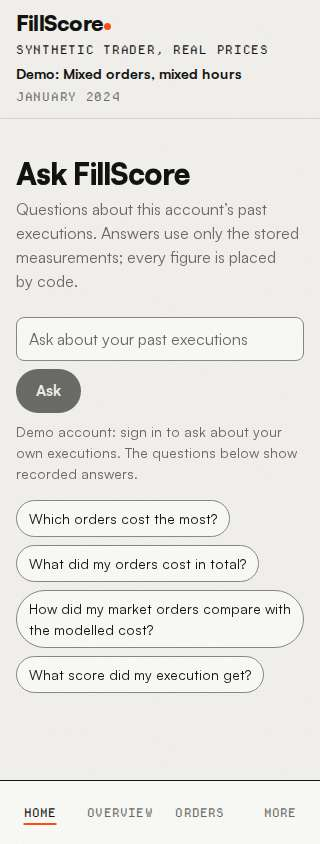
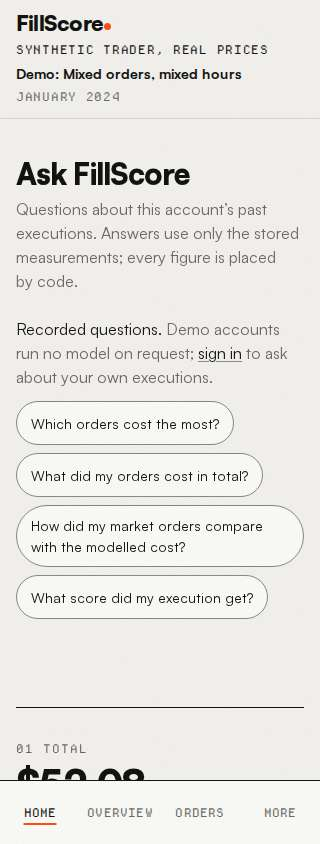
IA v4 review fixes: one demo entry, honest answer labels, one live announcement, stamp version

diff --git a/frontend/app/design-lab/ia4/AskHome.tsx b/frontend/app/design-lab/ia4/AskHome.tsx
@@ -8,15 +8,20 @@ import type { RecordedRun } from './data'
  * answers of the real Ask agent (fixtures/ask-recorded.json), shown verbatim and labelled as recorded. The answer prints as a
  * receipt slip: the paper feeds out of the slot, then each line prints (ia4.css; reduced motion: the finished slip).
  */
-export function AskHome({ runs, label, recordedAt }: { runs: RecordedRun[]; label: string; recordedAt: string }) {
+export function AskHome({ runs, label, recordedAt, context }: { runs: RecordedRun[]; label: string; recordedAt: string; context: string }) {
   const [picked, setPicked] = useState<number | null>(null)
   const run = picked === null ? null : runs[picked]
+  // review (step 4): the LLM heading only over text the model wrote; a degraded answer was written by code and says so
+  const byModel = run ? run.view.note === null : false
   const lines: Array<{ key: string; node: React.ReactNode; className?: string }> = run ? [
     { key: 'h', node: 'ASK FILLSCORE', className: 'text-center font-mono tracking-[0.08em]' },
     { key: 'r', node: 'RECORDED ANSWER, NOT LIVE', className: 'text-center font-mono text-[12px] tracking-[0.06em] text-ui-graphite' },
+    // the account's period and order count, placed by code, so a slip read alone keeps its scope
+    { key: 'c', node: context, className: 'text-center font-mono text-[12px] tracking-[0.06em] text-ui-graphite' },
     // DESIGN §4: mono for printed labels only; sentences in the text face
     { key: 'q', node: <><span className="font-mono text-[12px] tracking-[0.06em] text-ui-graphite">QUESTION </span><span className="font-sans text-[15px]">{run.question}</span></>, className: 'mt-3' },
-    { key: 'lh', node: 'Explanation (language model; every number was checked against the audit)', className: 'mt-3 font-sans text-[13px] text-ui-graphite' },
+    { key: 'lh', node: byModel ? 'Explanation (language model; every number was checked against the audit)' : 'Written by code from the measured values (no model text)',
+      className: 'mt-3 font-sans text-[13px] text-ui-graphite' },
     { key: 'a', node: run.view.answer, className: 'font-sans text-[18px] leading-snug font-bold tracking-[-0.015em]' },
     ...(run.view.note ? [{ key: 'n', node: run.view.note, className: 'font-sans text-[14px] text-ui-graphite' }] : []),
     { key: 'm', node: run.view.meta, className: 'mt-2 font-sans text-[14px] text-ui-graphite' },
@@ -26,25 +31,23 @@ export function AskHome({ runs, label, recordedAt }: { runs: RecordedRun[]; labe
     <section aria-labelledby="ask-title" data-testid="ia4-ask">
       <h1 id="ask-title" className="display-md text-ui-ink">Ask FillScore</h1>
       <p className="mt-2 max-w-[60ch] text-[16px] text-ui-graphite">Questions about this account&rsquo;s past executions. Answers use only the stored measurements; every figure is placed by code.</p>
-      <form className="mt-6 flex flex-wrap items-stretch gap-2" onSubmit={(e) => e.preventDefault()}>
-        <label htmlFor="ia4-q" className="sr-only">Your question</label>
-        <input id="ia4-q" readOnly value={run?.question ?? ''} placeholder="Ask about your past executions"
-          aria-describedby="ia4-q-hint" className="min-h-11 min-w-0 flex-1 basis-64 rounded-[8px] border border-ui-edge bg-ui-raised px-3 text-[16px] text-ui-ink placeholder:text-ui-graphite" />
-        <button type="submit" disabled className="min-h-11 rounded-full bg-ui-ink px-5 text-[15px] font-bold text-ui-surface disabled:opacity-60">Ask</button>
-      </form>
-      <p id="ia4-q-hint" className="mt-2 text-[14px] text-ui-graphite">
+      {/* review (step 4): a demo account gets no input it cannot use; the recorded questions are the interaction. A signed-in
+          account gets the live box (production AskPanel) in this place. */}
+      <p className="mt-6 text-[16px] text-ui-ink">
         {runs.length
-          ? 'Demo account: sign in to ask about your own executions. The questions below show recorded answers.'
-          : 'Demo account: sign in to ask about your own executions. Recorded answers exist for the mixed-orders demo trader only.'}
+          ? <>Recorded questions. <span className="text-ui-graphite">Demo accounts run no model on request; <a href="/login" className="text-ui-ink underline underline-offset-2">sign in</a> to ask about your own executions.</span></>
+          : <>No recorded questions for this demo trader. <span className="text-ui-graphite">Recorded answers exist for the mixed-orders trader; <a href="/login" className="text-ui-ink underline underline-offset-2">sign in</a> to ask about your own executions.</span></>}
       </p>
-      <ul className="mt-4 flex flex-wrap gap-2" aria-label="Suggested questions">
+      <ul className="mt-3 flex flex-wrap gap-2" aria-label="Recorded questions">
         {runs.map((r, i) => (
           <li key={r.question} className="max-w-full">
-            <button type="button" className="ia4-chip" aria-pressed={picked === i} onClick={() => setPicked(i)} data-testid="ia4-chip">{r.question}</button>
+            <button type="button" className="ia4-chip" data-picked={picked === i} onClick={() => setPicked(i)} data-testid="ia4-chip">{r.question}</button>
           </li>
         ))}
       </ul>
-      <div aria-live="polite" className="mt-6 max-w-[640px]">
+      {/* screen readers hear the answer sentence once, not every printed line */}
+      <p className="sr-only" role="status">{run ? `Recorded answer: ${run.view.answer}` : ''}</p>
+      <div className="mt-6 max-w-[640px]">
         {run ? (
           <div>
             <div className="ia4-slot" aria-hidden="true" />

diff --git a/frontend/app/design-lab/ia4/AppShell4.tsx b/frontend/app/design-lab/ia4/AppShell4.tsx
@@ -33,19 +33,27 @@ export function AppShell4({ active, userId, account, provenance, period, version
   const [y, setY] = useState<number | null>(null)
   const sheet = useRef<HTMLDialogElement>(null)
   // the pen underline sits under the current item: measured after layout, moved by transform (ia4.css)
+  // re-measured on resize and once the fonts load, so a font swap or text zoom cannot leave it under the wrong item (review)
   useLayoutEffect(() => {
-    const a = nav.current?.querySelector<HTMLAnchorElement>('a[aria-current="page"]')
-    if (a) setY(a.offsetTop + a.offsetHeight - 3)
+    const place = () => {
+      const a = nav.current?.querySelector<HTMLAnchorElement>('a[aria-current="page"]')
+      if (a) setY(a.offsetTop + a.offsetHeight - 3)
+    }
+    place()
+    window.addEventListener('resize', place)
+    void document.fonts?.ready.then(place)
+    return () => window.removeEventListener('resize', place)
   }, [active])
   return (
     <div className="ia4-shell">
       <aside className="ia4-side" aria-label="App">
         <div className="flex items-center justify-between">
           <Link href="/design-lab/ia4/site" className="no-underline" aria-label="FillScore site"><Logo /></Link>
-          <span className="font-mono text-[11px] text-ui-graphite" aria-label="Command menu: control K">⌘K</span>
+          <span className="font-mono text-[11px] text-ui-graphite" aria-hidden="true">⌘K</span>
         </div>
         <div>
-          <button type="button" className="w-full rounded-[8px] border border-ui-edge px-2.5 py-2 text-left text-[14px] font-bold text-ui-ink">Demo: {account}</button>
+          <Link href="/design-lab/ia4/site#demo" className="block w-full rounded-[8px] border border-ui-edge px-2.5 py-2 text-left text-[14px] font-bold text-ui-ink no-underline"
+            aria-label={`Demo: ${account}. Switch demo trader`}>Demo: {account}</Link>
           <p className="mt-2 font-mono text-[11px] tracking-[0.06em] text-ui-ink uppercase">{provenance}</p>
           <p className="font-mono text-[11px] tracking-[0.06em] text-ui-graphite uppercase">{period}</p>
         </div>

diff --git a/frontend/app/design-lab/ia4/app/page.tsx b/frontend/app/design-lab/ia4/app/page.tsx
@@ -25,7 +25,8 @@ export default async function Ia4App({ searchParams }: { searchParams: Promise<{
       {active === 'home' ? (
         <div className="flex flex-col gap-16">
           {/* answers were recorded for one demo trader only; the others say so instead of borrowing its answers */}
-          <AskHome runs={trader.id === ask.account ? ask.runs : []} label={ask.label} recordedAt={ask.recordedAt} />
+          <AskHome runs={trader.id === ask.account ? ask.runs : []} label={ask.label} recordedAt={ask.recordedAt}
+            context={`${k.periodLabel.toUpperCase()} · ${(k.headline?.orders ?? trader.orders).toLocaleString('en-US')} ORDERS`} />
 
           <section aria-labelledby="kf-title" className="border-t border-ui-ink pt-8" data-testid="ia4-key-figures">
             <h2 id="kf-title" className="sr-only">Key figures, {k.periodLabel}</h2>
@@ -39,7 +40,15 @@ export default async function Ia4App({ searchParams }: { searchParams: Promise<{
                   </>
                 ) : <ValueState state="not-computed" label="Total cost" reason="The orders were not measured, so there is no dollar total." />}
               </div>
-              {k.grade ? <GradeStamp grade={k.grade.letter} score={k.grade.score} period={k.periodLabel} version={k.grade.version} size="sm" /> : null}
+              {k.grade ? (
+                <div className="flex flex-col items-start gap-3 lg:items-end">
+                  <GradeStamp grade={k.grade.letter} score={k.grade.score} period={k.periodLabel} version={k.grade.version} size="sm" />
+                  {/* review (step 4): the version printed beside the small stamp, which shows the period only */}
+                  <p className="font-mono text-[12px] tracking-[0.06em] text-ui-graphite uppercase" data-testid="ia4-stamp-version">
+                    Scoring {k.grade.version} (measured){k.grade.bandText ? `, range ${k.grade.bandText}` : ''}
+                  </p>
+                </div>
+              ) : null}
             </div>
 
             <div className="mt-12">

diff --git a/frontend/app/design-lab/ia4/ia4.css b/frontend/app/design-lab/ia4/ia4.css
@@ -36,10 +36,10 @@
 @keyframes ia4-in { from { opacity: 0; transform: translateY(8px); } to { opacity: 1; transform: none; } }
 
 /* ---- the Ask box and chips ---- */
-.ia4-chip { display: inline-block; max-width: 100%; text-align: left; padding: 7px 12px; border: 1px solid var(--ui-edge); border-radius: 999px;
+.ia4-chip { display: inline-block; max-width: 100%; min-height: 44px; text-align: left; padding: 9px 14px; border: 1px solid var(--ui-edge); border-radius: 999px;
   font-size: 14px; color: var(--ui-ink); background: var(--ui-raised); cursor: pointer; }
 .ia4-chip:hover { background: var(--ui-overlay); }
-.ia4-chip[aria-pressed="true"] { border-color: var(--ui-ink); }
+.ia4-chip[data-picked="true"] { border-color: var(--ui-ink); box-shadow: inset 0 0 0 1px var(--ui-ink); }
 
 /* ---- the receipt that prints: paper feeds out of the slot, then each line prints left to right ---- */
 .ia4-slot { height: 6px; border-radius: 3px; background: var(--ui-ink); }

diff --git a/frontend/app/design-lab/ia4/SiteTopBar.tsx b/frontend/app/design-lab/ia4/SiteTopBar.tsx
@@ -10,7 +10,8 @@ export const SITE_ITEMS: Array<[string, string]> = [
   // "How it works" is the landing's HowItReads section today (proposed: its own page, /how-it-works)
   ['/', 'How it works'], ['#demo', 'Demo'], ['/verify', 'Verify'], ['/methodology', 'Docs'],
 ]
-const DEMO = '/design-lab/ia4/app'
+// review (step 4): "Demo" and "Open the demo" both lead to the choice of trader (proposed: /demo), never straight past it
+const DEMO = '/design-lab/ia4/site#demo'
 
 export function SiteTopBar() {
   const menu = useRef<HTMLDialogElement>(null)

diff --git a/docs/design/IA-v4/PROPOSAL.md b/docs/design/IA-v4/PROPOSAL.md
@@ -37,7 +37,8 @@ Pricing: **no page.** Stripe is prepared and off, there is no plan to show (STAT
 
 ### Marketing top bar
 
-`FillScore.` · How it works · Demo · Verify · Docs · (right) Log in · **Open the demo** (ink pill). 5 items plus two actions
+`FillScore.` · How it works · Demo · Verify · Docs · (right) Log in · **Open the demo** (ink pill). "Demo" and "Open the demo"
+both go to `/demo`, the choice of trader; nothing skips the choice. 4 items plus two actions
 (cal.com has 10; Linear 8). Methodology and Verify stay public but leave the app's bar: Methodology sits under Docs, Verify is
 its own item because "check it yourself" is the trust promise. Phone: wordmark, "Open the demo", Menu; the menu is a receipt
 sheet with the five items and Log in / Sign up pinned at the bottom (cal.com's pattern).
@@ -106,10 +107,13 @@ versions, log in/out). The account switcher and the provenance line sit at the t
   its DESIGN §9 heading.
 - **Key figures under it** are today's overview chapter 01 (the total and its sentence, the grade stamp) and 02 (the strip),
   served by the same APIs (`/audit/orders-summary`); the other chapters stay on Overview.
-- **A demo visitor** lands on `/app?userId=demo-moderate` from "Open the demo" (or `/demo`, which lists the three traders). The Ask
-  service refuses demo accounts (no model runs on request for demo data), so Home shows the **recorded** answers of the real Ask
-  agent for that demo, labelled "Recorded answer of the Ask agent on demo data; not a live answer", and the box says "Sign in to ask
-  about your own executions." The chips then show their recorded answer.
+- **A demo visitor** picks a trader on `/demo` and lands on `/app?userId=demo-*`. The Ask service refuses demo accounts (no model
+  runs on request for demo data), so a demo Home has **no input box**: it shows "Recorded questions" as chips, each printing the
+  **recorded** answer of the real Ask agent, labelled "Recorded answer, not live", with a code-built line of scope (period and order
+  count). The LLM heading appears only over text the model wrote; a degraded answer is headed "Written by code from the measured
+  values". Screen readers hear the answer sentence once (one status element), not each printed line.
+- **The stamp** on Home is the small one (period only), so the scoring version and range are printed beside it
+  ("SCORING V2.3.0 (MEASURED), RANGE 92.5 TO 94.1"). The locked v1 grade stays where it is today (Evidence, "v1 details").
 - **A signed-in user** lands on `/app` after login (today: `/dashboard`). With no exchange connected yet, Home shows the connect
   empty state (one icon, "No trades yet", two lines, one action: "Connect an exchange") and the broker-file tool beside it; Ask is
   disabled with "Ask needs measured orders." With data, Ask is live (2 budget units per question, as today).
@@ -147,8 +151,13 @@ the page and stays visible.
 | ⌘K palette | keep | lists the sidebar's items and actions | n/a | n/a |
 
 Nothing retires. Trades and Analytics merge into one page because both read v1 per-fill scores; one sidebar item is clearer
-than two. The redirects go in `next.config` `redirects()`, with a test that every old URL (including each `?view=`) answers
-308 to its new home and keeps the query.
+than two. The redirects go in `next.config` `redirects()`, with a test that every old URL (including each `?view=`, and
+combinations such as `?view=orders&userId=demo-moderate&order=...`) answers 308 to its new home and keeps the rest of the query;
+and that `/app/*` pages without `userId` send a signed-out visitor to log in, while `/app/check` stays open signed out.
+
+Glosses for the less obvious nouns go in the ⌘K palette and the More sheet, one line each: Rules "orders that broke a stated
+rule", Rankings "groups of orders compared, with noise", Council "a language-model review of the audit", Evidence "signed packs and
+the record behind the grade", Fills "each fill and its patterns".
 
 ## 4. Number presentation rules (proposed DESIGN.md section 12; proposal text only)
 
@@ -220,3 +229,25 @@ shadow).
 4. The recorded Ask answers on demo Home (recommended, labelled), or no Ask on demo accounts at all.
 5. The Ask agent's recorded comparison answer reads "-0.1 bps in bps" (a doubled unit in the model's sentence; the recording is not
    edited). A renderer or prompt fix is a separate order.
+6. The landing hero's figures (spread, impact and timing, fees of one demo order) carry the synthetic line below the call to action,
+   not beside the tape. A "One demo order, Jan 31, 2024" label on the tape itself is a small production change, outside this order.
+
+## 9. Review (step 4, one reviewer, Sonnet, read-only)
+
+| Finding (reviewer's rank) | Decision |
+|---|---|
+| Two demo entries land on different pages (high) | Fixed: both go to the choice of trader (`/demo`; lab: the site's demo section). |
+| LLM heading over the code-built fallback answer (high) | Fixed: the heading shows only over model text; a degraded answer is headed "Written by code from the measured values". |
+| `aria-live` around the whole printing slip; chips as `aria-pressed` toggles (high) | Fixed: one `role="status"` element announces the answer sentence; chips are plain buttons. |
+| Home is a chat box a demo visitor cannot use (medium) | Fixed: no input on a demo Home; "Recorded questions" with a sign-in link. |
+| No scoring version beside the small stamp; v1 shows B 84.8 (medium) | Fixed: "Scoring v2.3.0 (measured), range 92.5 to 94.1" printed beside the stamp. v1 stays in Evidence, as today. |
+| Sidebar jargon (medium) | Kept the nine nouns (cal.com: ten, unlabelled); added one-line glosses in the ⌘K palette and the More sheet (section 3). |
+| Model numbers only "verified in the old Ask path" (medium) | Kept: the recording came from the production `ask_flow`, whose gate drops any number that is not a tool value (`agents/ask.py`); the UI shows its output verbatim. The doubled unit is open question 5. |
+| Answer lacks period and count (medium) | Fixed: a code-built scope line on the slip ("JANUARY 2024 · 245 ORDERS"). The strip's sentence sits under the page header's period. |
+| Landing hero figures lack a "demo order" label at the tape (medium) | Kept: the hero is production's, unchanged by this order; open question 6. |
+| Chips and sidebar items under 44 px (medium) | Fixed for chips (min-height 44 px). Sidebar items are desktop-only (fine pointer); WCAG 2.2 AA asks 24 px, met. Native `<dialog>` returns focus to its opener on close. |
+| Pen underline measured once (medium) | Fixed: re-measured on resize and after the fonts load. |
+| Redirect test should cover query combinations; `/app/*` auth (low) | Fixed in section 3. |
+| NOT SIGNED and "not independently measured" absent from images (low) | Kept: no order receipt is in the prototype (NOT SIGNED lives on the receipt, unchanged); the fee part of the Home strip prints "Not independently measured: fees at the published rate." under its figure. |
+| Graphite contrast (low) | Kept: graphite is >= 4.5:1 on all three grounds, tested by `app/ui/contrast.test.ts`; axe 0 serious. |
+| Account switcher button does nothing; ⌘K hint read aloud (low) | Fixed: the switcher links to the choice of trader; the ⌘K hint is `aria-hidden`. |

diff --git a/docs/PROGRESS.md b/docs/PROGRESS.md
@@ -4,7 +4,15 @@ This file is the resume point for the work in `docs/agent/MASTER_BRIEF.md`. A ne
 
 ## Orders of 2026-11-22, fifth: two fixes, the production 418, IA v4 research and proposal (local commits)
 
-- **Next concrete action: Step 4** (one reviewer on the proposal and the images, one pass of fixes).
+- **Next concrete action: IA v4 proposal ready: Deepanshu chooses (docs/design/IA-v4/)**. Also open: Deepanshu's probe output and
+  Render log lines for the 418 (step 0c).
+- **Step 4: done.** One reviewer (Sonnet, read-only): 15 findings (3 high, 8 medium, 4 low); 10 fixed in the prototype and proposal, 5
+  kept with a reason (table in PROPOSAL.md section 9). Final checks: frontend vitest 760 passed (79 files; the pre-existing timing test
+  `MarginNote` "opens on click and closes on Escape" failed once under full-suite load and passed on the rerun; this order does not touch
+  it), tsc 0, lint 0 errors (17 warnings), build ok, `design-lab-guard.spec.ts` 9 passed, `ia4-shots.ts` PASS (10 states, overflow 0,
+  axe serious/critical 0, reduced motion finished); backend vitest 1124 passed (133 files), tsc 0; ml-service pytest 1852 passed,
+  9 deselected. First Load JS: `/dashboard` 389.6 kB; lab app 311.9 kB vs lab index 308.3 kB. Live LLM calls this order: 8 (the
+  recorded Ask fixture, free tier, usage counted in memory). Atlas writes: none. Nothing pushed.
 - **Step 3: done.** Prototype `frontend/app/design-lab/ia4/` (site: top bar, tape hero, demo entry, footer; app: sidebar, phone bar
   with More sheet, Ask home with 4 chips playing the recorded answers as a printing receipt slip, key figures from fixtures). 11 images
   and README in `docs/design/IA-v4/`. Checks: frontend vitest 760 passed (79 files), tsc 0, lint 0 errors (17 warnings), build ok,
